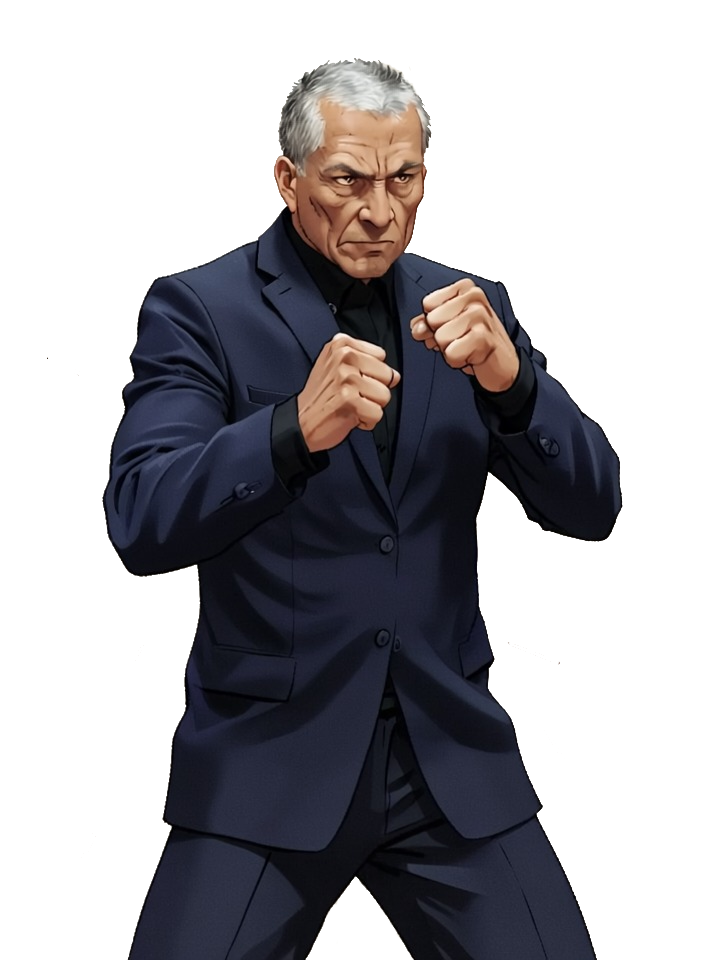
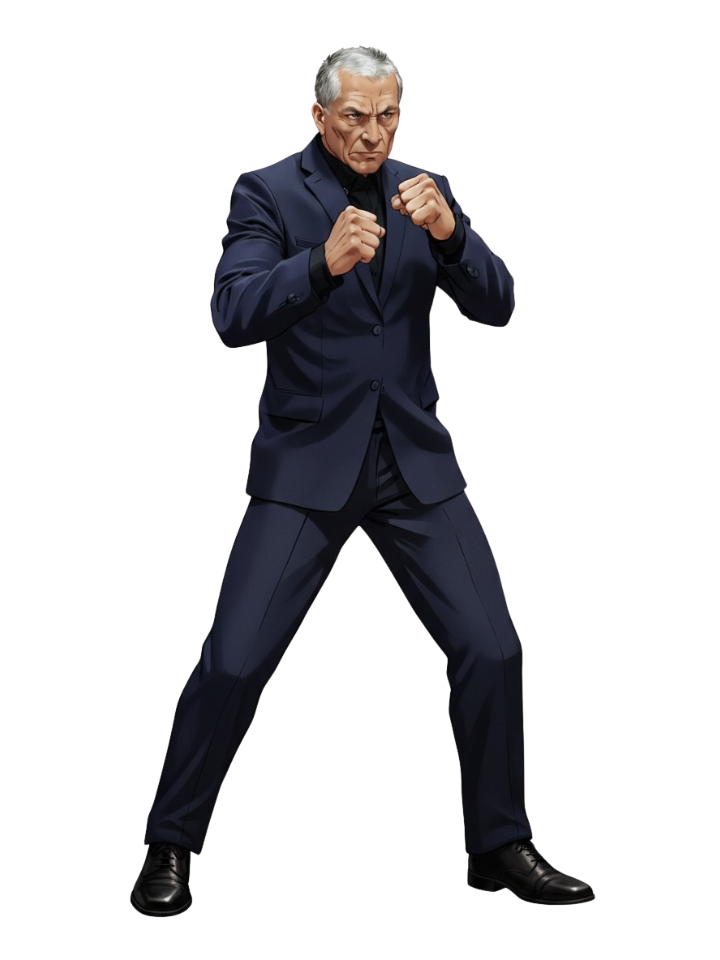
make everybody fullbody

diff --git a/src/data/candidates.ts b/src/data/candidates.ts
@@ -346,7 +346,7 @@ export const candidates: Candidate[] = [
       ]
     },
     headshot: "https://pbs.twimg.com/profile_images/1372582295987757058/P2yzmjJP_400x400.jpg",
-    fullBody: "/fotos_candidatos/rafael/full_body_rafael.png",
+    fullBody: "/fotos_candidatos/rafael/full_body_rafael.gif",
     econ: 8,
     social: 7
   },
@@ -1091,8 +1091,8 @@ export const candidates: Candidate[] = [
     "id": "cesar-acuna",
     "nombre": "César Acuña",
     "ideologia": "Populismo pragmático y clientelar",
-    "headshot": "https://scontent.fyto1-2.fna.fbcdn.net/v/t39.30808-6/464312545_8670841469649974_6456719888596036131_n.png?_nc_cat=110&ccb=1-7&_nc_sid=a5f93a&_nc_ohc=5Vzs_nTUJeQQ7kNvwGlBWdM&_nc_oc=AdlLJTTbx9rGFzYeTlj-nCxyQal4Gle0hplLZ47jBCgO3AN8lM_IBwsKLov8IgDUuo0&_nc_zt=23&_nc_ht=scontent.fyto1-2.fna&_nc_gid=XDFcnZVR3NCIL6tCk9BWOw&oh=00_AfVRE59W2qacBCIkVH9JKJshWrFdzwyUO9IqDu6Zfu-gOw&oe=68B68BC7",
-    "fullBody": "/fotos_candidatos/acuña/full_body_acuña.png",
+    "headshot": "https://upload.wikimedia.org/wikipedia/commons/b/bf/C%C3%A9sar_Acu%C3%B1a_Peralta.jpg",
+    "fullBody": "/fotos_candidatos/acuña/full_body_acuña_move.gif",
     "proyectoPolitico": {
       "titulo": "Poder regional a través de obras de impacto y un modelo educativo-empresarial",
       "resumen": "Utiliza la vasta fortuna generada por su consorcio universitario (UCV, USS) para financiar un proyecto político regionalista, centrado en la ejecución de obras públicas de alto impacto visual y el establecimiento de una red clientelar para consolidar su poder en el norte del Perú.",
